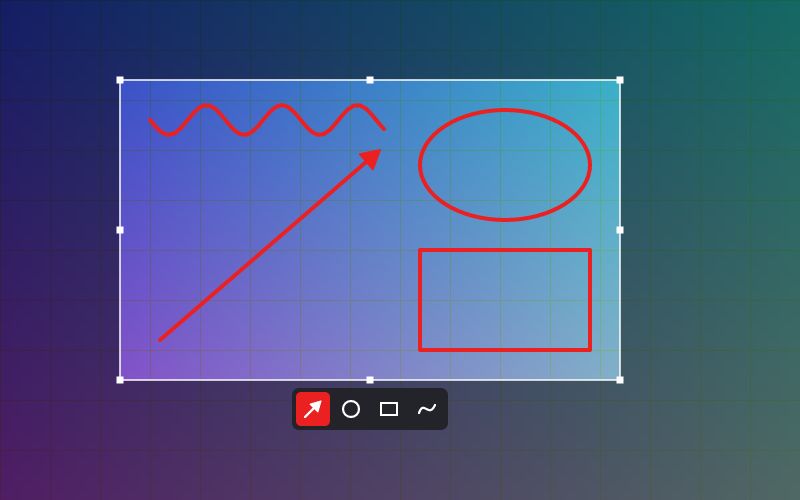
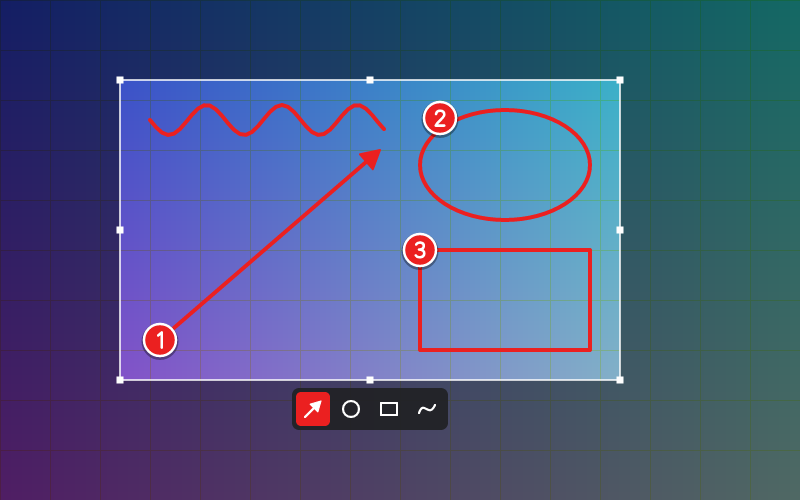
README: show numbered markers in the demo screenshot
The preview test now labels the arrow, circle and rectangle with
markers 1-3, and docs/demo.png is that frame.

Changed region(s): [[0.5312, 0.18, 0.5938, 0.3], [0.5, 0.45, 0.5625, 0.54], [0.1562, 0.63, 0.25, 0.72]]

diff --git a/src/render.rs b/src/render.rs
@@ -421,8 +421,13 @@ mod tests {
             Shape::Rect((420.0, 250.0), (590.0, 350.0)),
             Shape::Pen((0..40).map(|i| (150.0 + i as f32 * 6.0, 120.0 + (i as f32 * 0.5).sin() * 15.0)).collect()),
         ];
-        // Markers 1..10 in a row along the bottom of the selection.
-        ed.shapes.extend((1..=10).map(|n| Shape::Marker((150.0 + (n - 1) as f32 * 48.0, 300.0), n)));
+        // Numbered steps on the arrow's tail, the circle and the rectangle's corner. This frame
+        // is docs/demo.png.
+        ed.shapes.extend([
+            Shape::Marker((160.0, 340.0), 1),
+            Shape::Marker((440.0, 118.0), 2),
+            Shape::Marker((420.0, 250.0), 3),
+        ]);
         let mut canvas = vec![0u8; img.data.len()];
         compose(&mut canvas, &img, &ed, 0, 1.0);
         write_png("/tmp/quicksnap-preview.png", img.width, img.height, &canvas);
@@ -432,11 +437,11 @@ mod tests {
         // The arrow tip area is red in the export.
         let tip = ((150 - 80 + 6) * 500 + (380 - 120 - 6)) as usize * 3;
         assert!(rgb[tip] > 200 && rgb[tip + 1] < 80 && rgb[tip + 2] < 80, "arrow is red: {:?}", &rgb[tip..tip + 3]);
-        // Marker 1 sits at (150, 300): white digit stroke in the middle, red disc beside it.
+        // Marker 1 sits at (160, 340): white digit stroke in the middle, red disc beside it.
         let at = |x: u32, y: u32| ((y - 80) * 500 + (x - 120)) as usize * 3;
-        let mid = at(151, 300);
+        let mid = at(162, 340);
         assert!(rgb[mid..mid + 3].iter().all(|&c| c > 200), "digit is white: {:?}", &rgb[mid..mid + 3]);
-        let disc = at(140, 306);
+        let disc = at(150, 346);
         assert!(rgb[disc] > 200 && rgb[disc + 1] < 80, "disc is red: {:?}", &rgb[disc..disc + 3]);
     }
 

diff --git a/README.md b/README.md
@@ -8,7 +8,7 @@ and COSMIC on Wayland: select, draw a red arrow, Ctrl+C. No waiting several seco
   <img alt="Time until you can start selecting: QuickSnap 65 ms; on four monitors Spectacle 1.7–6.4 s and Flameshot 10.7–36.3 s; on one monitor Spectacle 520 ms and Flameshot 580 ms" src="docs/benchmark-light.svg">
 </picture>
 
-<img alt="QuickSnap overlay with a selection, red arrow, circle, rectangle and pen stroke, and the tool bar under it" src="docs/demo.png" width="560">
+<img alt="QuickSnap overlay with a selection, red arrow, circle, rectangle and pen stroke, numbered markers 1 to 3, and the tool bar under it" src="docs/demo.png" width="560">
 
 ## What it does
 
